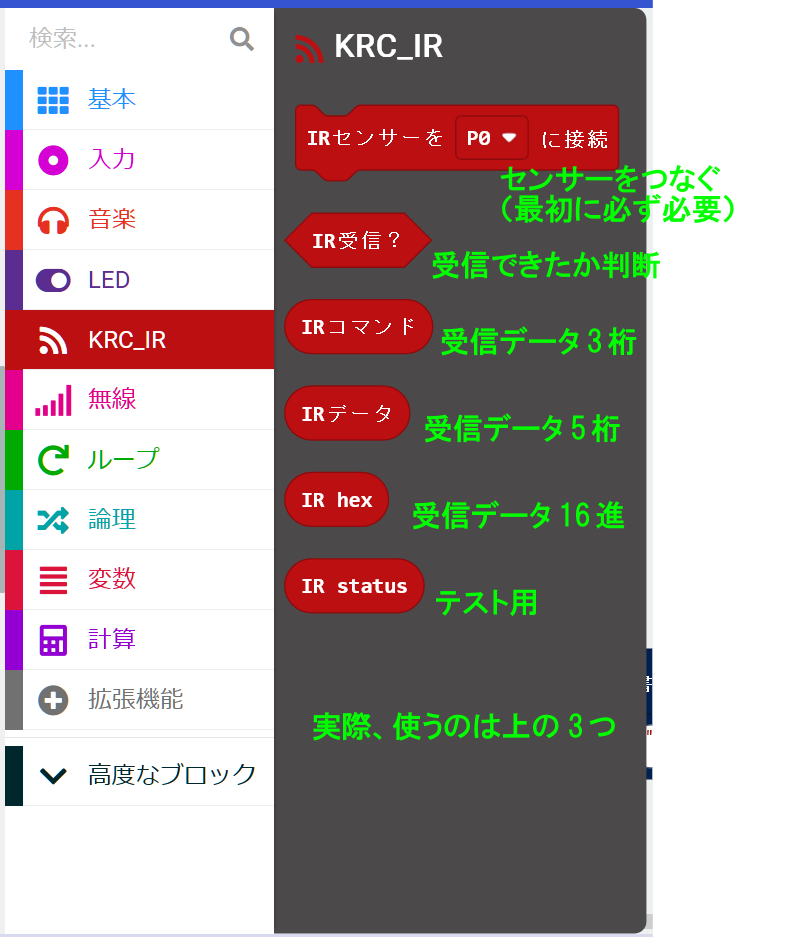
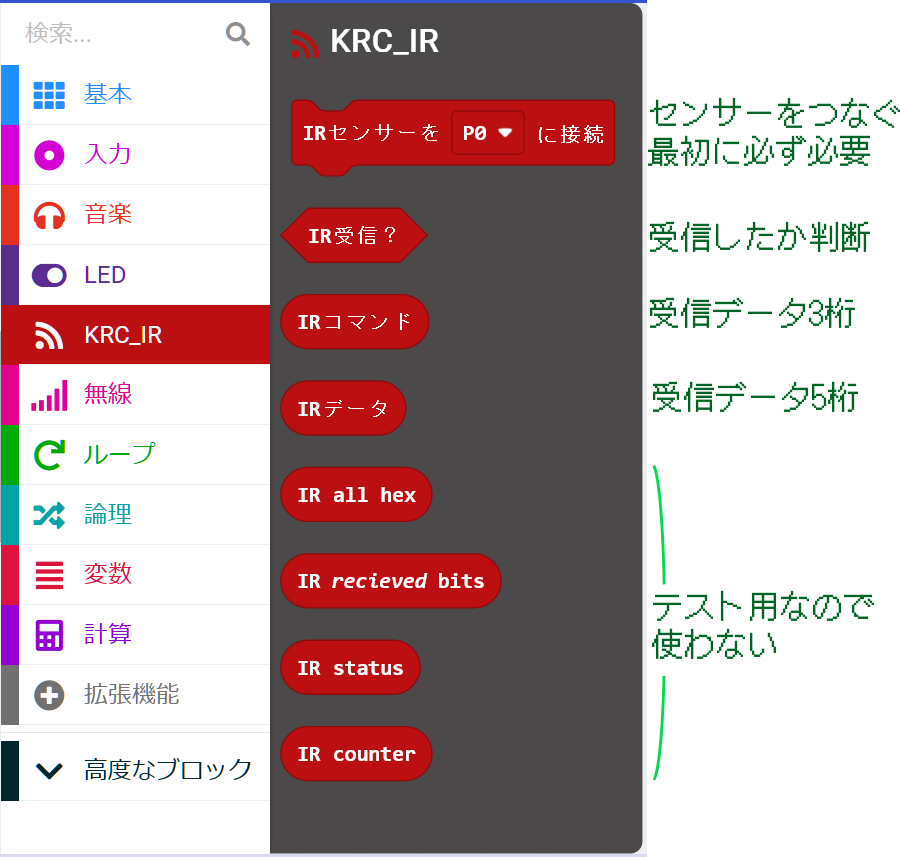
Add files via upload

diff --git a/custom.ts b/custom.ts
@@ -6,6 +6,7 @@
  *
  * Version 2022-07-17 0.00 初版
  * Version 2022-07-20 1.00 NECリピート対応、デバッグ用全データ、ビット数
+ * Version 2022-07-22 1.01 バイトオーダー変更
  */
 //% weight=100 color=#bc0f11 icon="\uf09e"
 namespace KRC_IR {
@@ -20,7 +21,6 @@ namespace KRC_IR {
     let tm_dur = 0
     let tm_last = 0
     let void_cnt = 0		// 無操作カウンタ
-    //let dbg_pls = 0
     let dbg_cnt = 0
 
     function toHexChar(decimal: number): string {
@@ -76,7 +76,7 @@ namespace KRC_IR {
                     make_data(1);
                 }
                 if (bits >= 32) {
-                    last_address_data = work_buff[2]*256+work_buff[3]
+                    last_address_data = work_buff[2]+work_buff[3]*256
                     state = 2
                 }
             }
@@ -88,7 +88,7 @@ namespace KRC_IR {
                     make_data(1);
                 }
                 if (bits >= 48) {
-                    last_address_data = work_buff[4]*256+work_buff[5]
+                    last_address_data = work_buff[4]+work_buff[5]*256
                     state = 2
                 }
             }
@@ -100,7 +100,7 @@ namespace KRC_IR {
                     make_data(1);
                 }
                 if (bits >= 11) {
-                    last_address_data = work_buff[0]*256+work_buff[1]
+                    last_address_data = work_buff[0]+work_buff[1]*256
                     state = 2
                 }
             }
@@ -125,21 +125,11 @@ namespace KRC_IR {
             tm_dur = tm_now - tm_last
             tm_last = tm_now
             check_pulse(tm_off, tm_dur)
-			//debug pin
-			//pins.digitalWritePin(DigitalPin.P0, dbg_pls);
-			//dbg_pls = (~dbg_pls) & 1
-
         });
-
-		//debug pin
-		//pins.digitalWritePin(DigitalPin.P0, 1);
-        //dbg_pls = 0
-
     }
 
 
     function initIrWork() {
-
         irType = 0			// NEC,PNASONIC,SONY
         state = 0		// 受信フェーズ　0:Leader待ち 1:ビット受信中 2:受信完了
         bits = 0			// 受信ビットカウンタ
@@ -190,7 +180,6 @@ namespace KRC_IR {
                 basic.pause(20)
             }
         })
-
     }
 
 
@@ -199,20 +188,9 @@ namespace KRC_IR {
      */
     //% blockId=ir_recieved_address_command
     //% block="IRデータ"			//"IR address command"
-    //% weight=31
+    //% weight=71
     export function irAddressCommand(): number {
-//        let cmd = 0;
-//        if (irType === 1) { // NEC
-//            cmd = work_buff[2]*256+work_buff[3]
-//        }
-//        if (irType === 2) { // Panasonic
-//            cmd = work_buff[4]*256+work_buff[5]
-//        }
-//        if (irType === 3) { // SONY
-//            cmd = work_buff[0]
-//        }
         initIrWork();
-//        return cmd
         return last_address_data
     }
 
@@ -221,21 +199,10 @@ namespace KRC_IR {
      */
     //% blockId=ir_recieved_command
     //% block="IRコマンド"		//"IR command"
-    //% weight=32
+    //% weight=72
     export function irCommand(): number {
-//        let cmd = 0;
-//        if (irType === 1) { // NEC
-//            cmd = work_buff[2]
-//        }
-//        if (irType === 2) { // Panasonic
-//            cmd = work_buff[4]
-//        }
-//        if (irType === 3) { // SONY
-//            cmd = work_buff[0]
-//        }
         initIrWork();
-//        return cmd
-        return (last_address_data>>8)&255
+        return (last_address_data & 255)
     }
 
     /**
@@ -257,7 +224,7 @@ namespace KRC_IR {
      */
     //% blockId=ir_state
     //% block="IR status"
-    //% weight=10
+    //% weight=11
     //% blockHidden=false
     export function irState(): number {
         return state
@@ -268,7 +235,7 @@ namespace KRC_IR {
      */
     //% blockId=ir_bits
     //% block="IR_recieved_bits"
-    //% weight=11
+    //% weight=12
     //% blockHidden=false
     export function ir_recieved_bits(): number {
         return bits
@@ -279,11 +246,11 @@ namespace KRC_IR {
      */
     //% blockId=ir_all_hex
     //% block="IR all hex"
-    //% weight=12
+    //% weight=13
     //% blockHidden=false
     export function irAllHex(): string {
 		let str = ""
-        for (let i = 0; i <= (bits-1)/8; i++) {
+        for (let i = (bits-1)/8; i >= 0; i--) {
             str = str + byte2hex(work_buff[i])
         }
         return str
